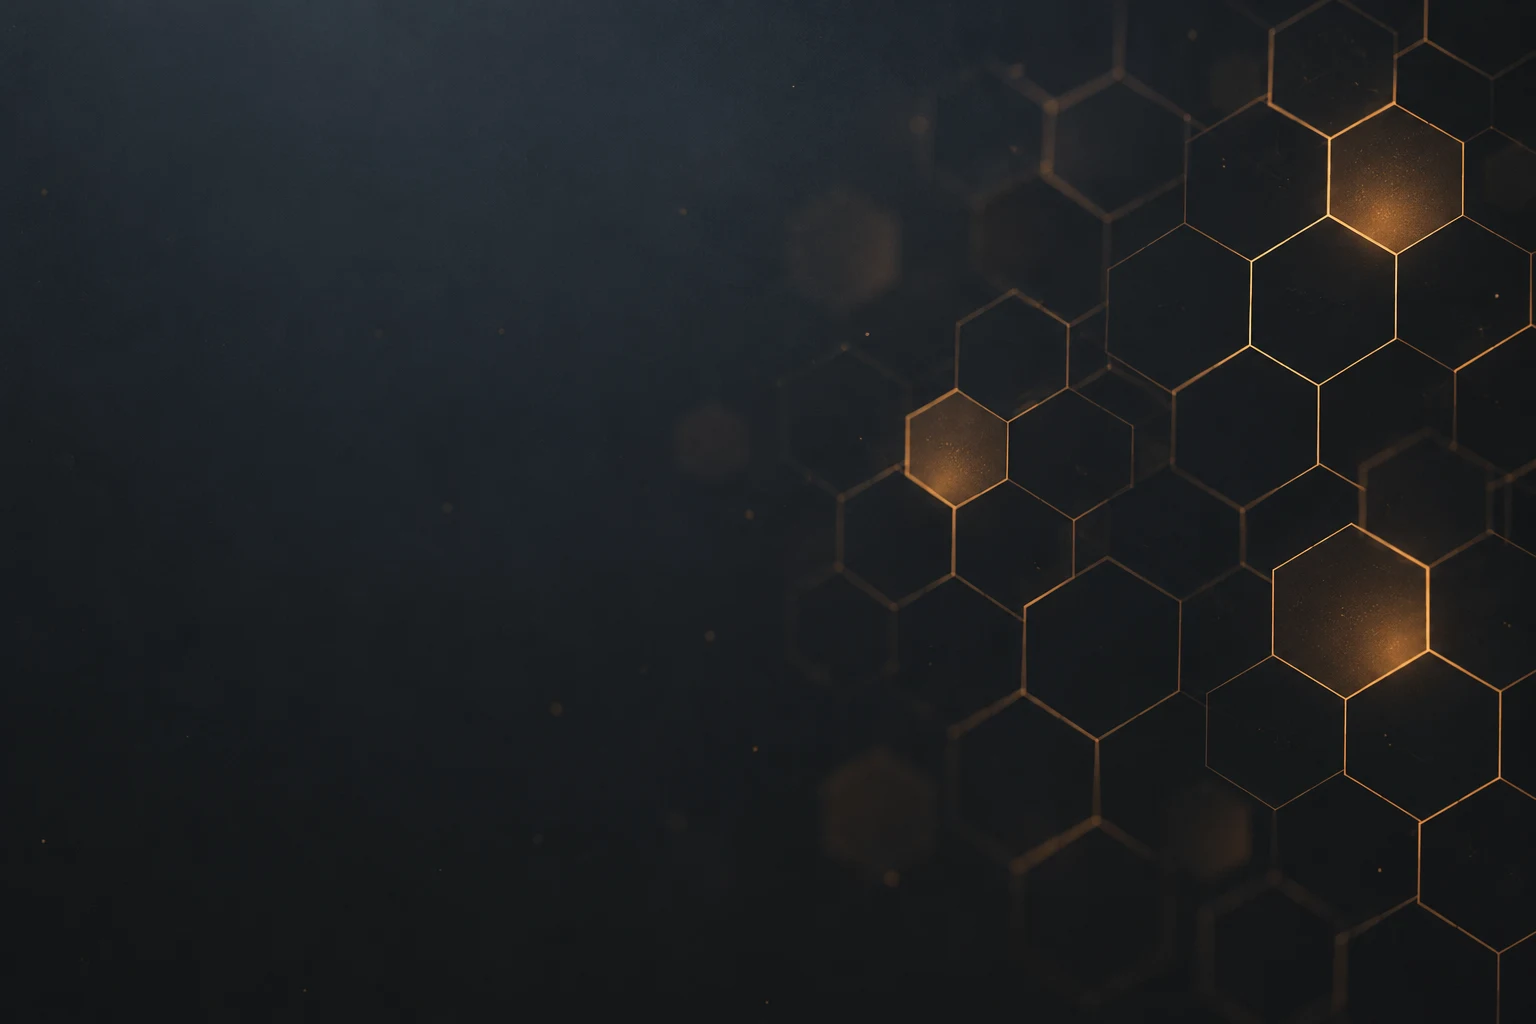
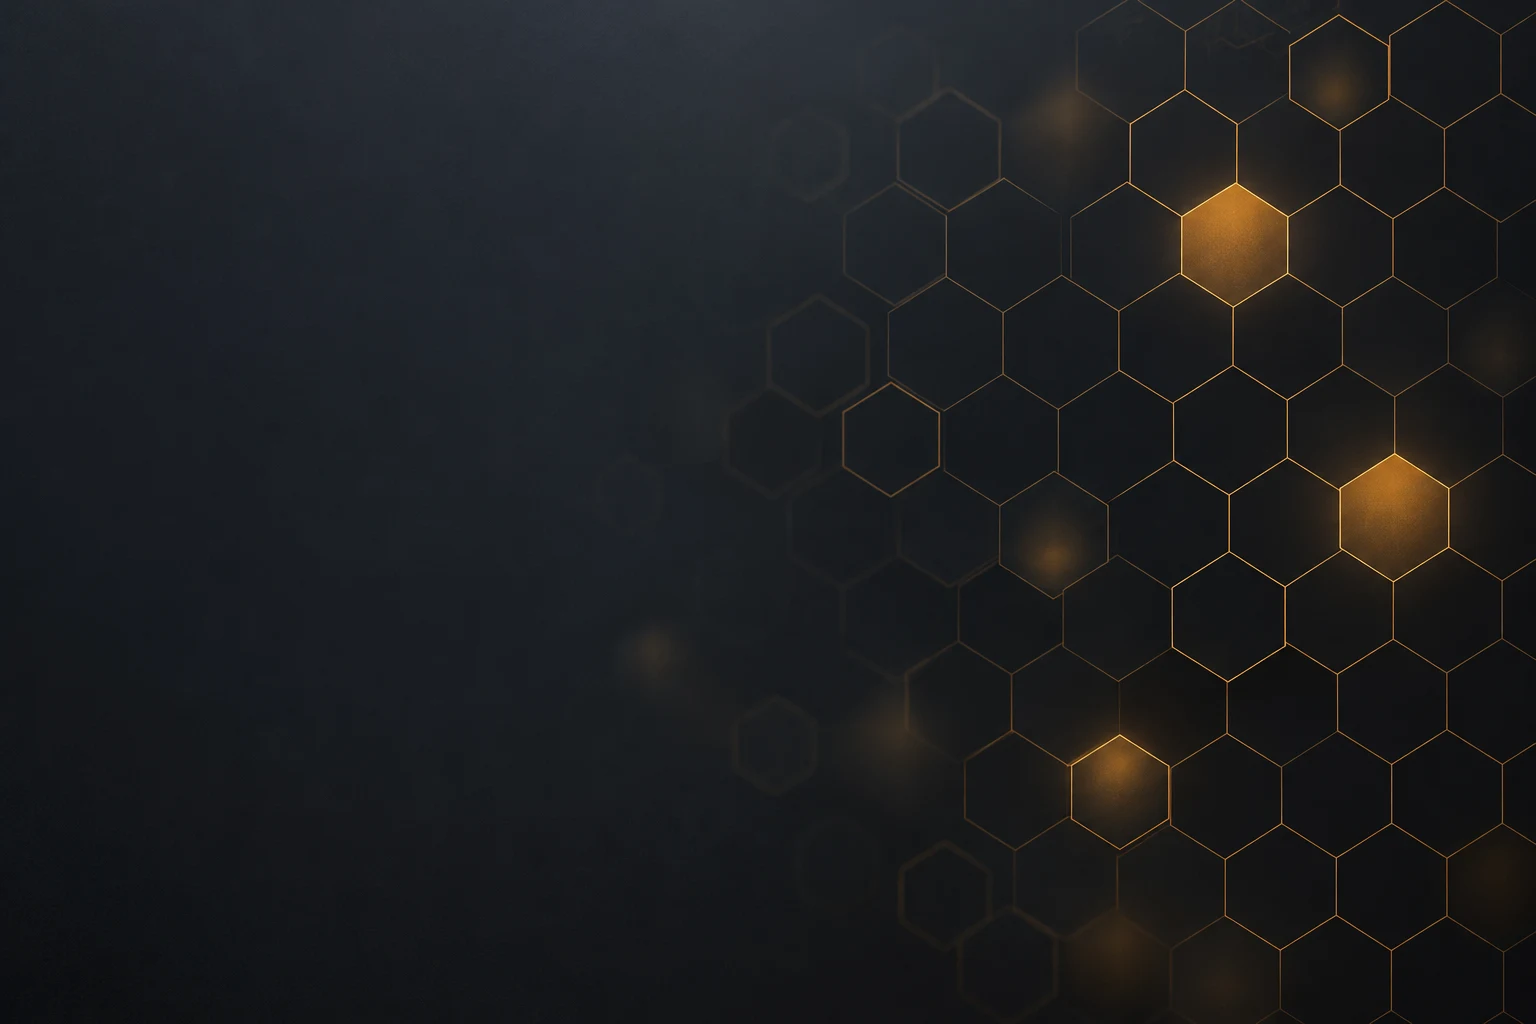
brand guide; one palette across app and site; pointy-top key visual
BRAND.md covers the name, the mark, the icon, colour (Hive Day and Hive
Night), status, type, shape and motion, voice and imagery, with a sheet
rendered in the real fonts and assets in .github/assets/brand/.

Decisions: honeycombs are pointy-top everywhere, like the mark, so the
key visual is regenerated and the share cards re-captured. The site's
dark mode uses the app's Tomorrow Night surfaces instead of the older
warm charcoal, and both use the app's muted #8C8478 on paper.

diff --git a/site/og/brand-sheet.html b/site/og/brand-sheet.html
@@ -1,0 +1,85 @@
+<!doctype html>
+<!-- hive's brand on one page, for BRAND.md. Capture at 1600×848, device
+     pixel ratio 2 (see README.md here). Values match the app (Style.swift),
+     the site (app.css) and the icon (icon.swift). -->
+<meta charset="utf-8">
+<style>
+  @font-face { font-family: Inter; src: url(../src/lib/fonts/InterVariable.woff2) format('woff2'); font-weight: 100 900; }
+  @font-face { font-family: 'JetBrains Mono'; src: url(../src/lib/fonts/JetBrainsMono-Regular.ttf); }
+  html, body { margin: 0; }
+  body { width: 1600px; height: 848px; background: #f6f2ea; color: #231f1a; font: 400 15px/1.4 Inter, sans-serif;
+         -webkit-font-smoothing: antialiased; display: grid; grid-template-columns: 560px 1fr; }
+  .night { background: #1d1f21; color: #c5c8c6; }
+  section { padding: 56px; }
+  .label { font-size: 13px; letter-spacing: 0.02em; color: #8c8478; margin: 0 0 14px; text-transform: uppercase; }
+  .night .label { color: #969896; }
+  .night .sw i { box-shadow: inset 0 0 0 1px rgb(197 200 198 / 0.22); }
+  .mark { display: flex; align-items: center; gap: 18px; margin-bottom: 44px; }
+  .mark img { width: 96px; height: 96px; }
+  .mark b { font: 600 64px/1 Inter; letter-spacing: -0.035em; }
+  .icon { display: flex; align-items: end; gap: 22px; margin-bottom: 44px; }
+  .icon img:nth-child(1) { width: 160px; } .icon img:nth-child(2) { width: 64px; } .icon img:nth-child(3) { width: 32px; } .icon img:nth-child(4) { width: 16px; }
+  .swatches { display: grid; grid-template-columns: repeat(5, 1fr); gap: 12px; margin-bottom: 36px; }
+  .sw i { display: block; height: 64px; border-radius: 10px; box-shadow: inset 0 0 0 1px rgb(35 31 26 / 0.14); margin-bottom: 8px; }
+  .sw b { display: block; font-weight: 500; font-size: 13px; }
+  .sw span { font: 12px/1.3 'JetBrains Mono', monospace; opacity: 0.75; }
+  .status { display: flex; gap: 28px; margin-bottom: 36px; font-size: 14px; }
+  .status div { display: flex; align-items: center; gap: 8px; }
+  .hex { width: 14px; height: 14px; clip-path: polygon(50% 0, 93.3% 25%, 93.3% 75%, 50% 100%, 6.7% 75%, 6.7% 25%); }
+  .type h1 { font: 500 34px/1.15 Inter; letter-spacing: -0.02em; margin: 0 0 10px; }
+  .type h1 span { color: #f2a93b; }
+  .type h1 + p { margin: 0 0 18px; font-weight: 300; font-size: 19px; letter-spacing: -0.01em; color: rgb(197 200 198 / 0.9); }
+  .type code { font: 14px/1.6 'JetBrains Mono', monospace; color: #fff; background: #282c34; border: 1px solid #373b41; border-radius: 10px; padding: 12px 16px; display: block; }
+  .type code em { color: #969896; font-style: normal; }
+  .day h2 { font: 500 26px/1.15 Inter; letter-spacing: -0.02em; margin: 0 0 8px; }
+  .day h2 span { color: #d98a12; }
+  .day h2 + p { margin: 0; font-weight: 300; font-size: 17px; color: rgb(35 31 26 / 0.64); }
+</style>
+
+<section class="day">
+  <p class="label">Mark</p>
+  <div class="mark"><img src="../../.github/assets/brand/mark-on-light.svg" alt=""><b>hive</b></div>
+  <p class="label">App icon at 160, 64, 32 and 16 px</p>
+  <div class="icon">
+    <img src="../../.github/assets/brand/icon-512.png" alt=""><img src="../../.github/assets/brand/icon-512.png" alt=""><img src="../../.github/assets/brand/icon-512.png" alt=""><img src="../../.github/assets/brand/icon-512.png" alt="">
+  </div>
+  <p class="label">Hive Day</p>
+  <div class="swatches">
+    <div class="sw"><i style="background:#d98a12"></i><b>Honey</b><span>#D98A12</span></div>
+    <div class="sw"><i style="background:#f6f2ea"></i><b>Paper</b><span>#F6F2EA</span></div>
+    <div class="sw"><i style="background:#fdfbf7"></i><b>Card</b><span>#FDFBF7</span></div>
+    <div class="sw"><i style="background:#231f1a"></i><b>Ink</b><span>#231F1A</span></div>
+    <div class="sw"><i style="background:#8c8478"></i><b>Muted</b><span>#8C8478</span></div>
+  </div>
+  <div class="status">
+    <div><i class="hex" style="background:#d98a12"></i>Working</div>
+    <div><i class="hex" style="background:#d24e45"></i>Blocked</div>
+    <div><i class="hex" style="background:#4e9a64"></i>Done</div>
+  </div>
+  <h2>Sessions that survive restarts. <span>Agents you can see.</span></h2>
+  <p>Inter for words. JetBrains Mono for terminals and code.</p>
+</section>
+
+<section class="night">
+  <p class="label">Mark on night</p>
+  <div class="mark"><img src="../../.github/assets/brand/mark-on-dark.svg" alt=""><b style="color:#e2e3e1">hive</b></div>
+  <p class="label">Hive Night: Tomorrow Night surfaces, honey accent</p>
+  <div class="swatches">
+    <div class="sw"><i style="background:#f2a93b"></i><b>Honey</b><span>#F2A93B</span></div>
+    <div class="sw"><i style="background:#1d1f21"></i><b>Night</b><span>#1D1F21</span></div>
+    <div class="sw"><i style="background:#282c34"></i><b>Surface</b><span>#282C34</span></div>
+    <div class="sw"><i style="background:#373b41"></i><b>Line</b><span>#373B41</span></div>
+    <div class="sw"><i style="background:#c5c8c6"></i><b>Text</b><span>#C5C8C6</span></div>
+  </div>
+  <div class="status">
+    <div><i class="hex" style="background:#f2a93b"></i>Working</div>
+    <div><i class="hex" style="background:#cc6666"></i>Blocked</div>
+    <div><i class="hex" style="background:#b5bd68"></i>Done</div>
+  </div>
+  <div class="type">
+    <p class="label">Type</p>
+    <h1>A terminal multiplexer for <span>agent-heavy work.</span></h1>
+    <p>Short sentences. Common words. Only what exists.</p>
+    <code>hive -s work run --label tests --wait -- go test ./... <em># exits with the tests' status</em></code>
+  </div>
+</section>

diff --git a/site/src/app.css b/site/src/app.css
@@ -8,7 +8,7 @@
   --card: #fdfbf7;
   --ink: #231f1a;
   --ink-62: rgb(35 31 26 / 0.64);
-  --muted: #a39b8f;
+  --muted: #8c8478;
   --rule: rgb(35 31 26 / 0.12);
   --tint: rgb(35 31 26 / 0.05);
   --honey: #d98a12;
@@ -21,13 +21,14 @@
 
 @media (prefers-color-scheme: dark) {
   :root {
-    --paper: #141317;
-    --card: #1b1a1f;
-    --ink: #ece8e1;
-    --ink-62: rgb(236 232 225 / 0.66);
-    --muted: #7d776f;
-    --rule: rgb(236 232 225 / 0.12);
-    --tint: rgb(236 232 225 / 0.06);
+    /* Tomorrow Night, as in the app's dark mode (see BRAND.md). */
+    --paper: #1d1f21;
+    --card: #282c34;
+    --ink: #e2e3e1;
+    --ink-62: rgb(197 200 198 / 0.9);
+    --muted: #969896;
+    --rule: rgb(197 200 198 / 0.14);
+    --tint: rgb(197 200 198 / 0.07);
     --honey: #f2a93b;
     --honey-soft: rgb(242 169 59 / 0.16);
     color-scheme: dark;

diff --git a/site/src/routes/+page.svelte b/site/src/routes/+page.svelte
@@ -116,7 +116,7 @@ make vt build
            background: linear-gradient(160deg, #f6d9a3 0%, #f3e6d1 48%, #efe9df 100%); }
   .panel img { position: absolute; top: 50%; left: 8%; width: 165%; max-width: none; height: auto; transform: translateY(-50%); }
   @media (prefers-color-scheme: dark) {
-    .panel { background: linear-gradient(160deg, #3b2c17 0%, #1e1b1f 52%, #151418 100%); }
+    .panel { background: linear-gradient(160deg, #3d3020 0%, #26282d 52%, #1d1f21 100%); }
   }
   header { margin-bottom: 18vh; }
 

diff --git a/BRAND.md b/BRAND.md
@@ -1,0 +1,140 @@
+# hive brand
+
+![hive's mark, app icon, colours and type in Hive Day and Hive Night](.github/assets/brand/sheet.webp)
+
+The idea in one shape: **many sessions, one needs you.** hive keeps a lot of
+work running side by side, and shows you the one that's waiting.
+
+## Name
+
+- **hive**, in lowercase, everywhere in text. That includes the start of a
+  sentence: "hive keeps your sessions."
+- **Hive** with a capital H only as the name of the macOS app (`Hive.app`,
+  the menu bar, the Dock), because macOS shows app names that way.
+- Never "HIVE" or "Hive CLI". The command is `hive`.
+
+## Mark
+
+Three pointy-top honeycomb cells. The top cell is lit honey; the two below
+are quiet.
+
+| File | Use |
+| --- | --- |
+| `.github/assets/brand/mark-on-light.svg` | On paper and other light backgrounds |
+| `.github/assets/brand/mark-on-dark.svg` | On night and other dark backgrounds |
+| `site/src/lib/Mark.svelte` | The site, which adapts to light and dark |
+
+- **Geometry:** pointy-top hexagons, the cell's corner pointing up. The two
+  lower cells sit 60° below the top one, with a small gap. The source of
+  truth is `apps/macos/script/icon.swift`, and the SVGs use the same
+  numbers.
+- **Clear space:** at least half a cell's width on every side.
+- **Smallest size:** 16 px. Below that, use only the lit cell.
+- **With the name:** the mark, then **hive** in Inter SemiBold at about the
+  mark's height, tracking −0.035em. The gap is a third of the mark's width.
+- **Don't:**
+  - rotate it or use flat-top cells;
+  - change the lit cell to any colour but honey, or light more than one
+    cell;
+  - add outlines, gradients beyond the icon's own, or a bee.
+
+## App icon
+
+The mark on a Tomorrow Night tile, with a soft honey glow behind the lit
+cell. `apps/macos/script/icon.swift` draws it, and `bundle.sh` builds
+`AppIcon.icns`. Exports: `.github/assets/brand/icon-1024.png` and
+`icon-512.png`. It reads at 16 px, so don't simplify it for small sizes.
+
+## Colour
+
+Honey is the only accent. Use it for one thing at a time: focus, the active
+tab, a selection, the lit cell, or the words that matter in a headline.
+Never fill a large area with it.
+
+**Hive Day** (light)
+
+| Role | Hex |
+| --- | --- |
+| Honey | `#D98A12` |
+| Paper (background) | `#F6F2EA` |
+| Card | `#FDFBF7` |
+| Ink (text) | `#231F1A` |
+| Muted | `#8C8478` |
+| Line | Ink at 12% |
+
+**Hive Night** (dark): the Tomorrow Night surfaces of Ghostty and tmux, with
+a honey accent
+
+| Role | Hex |
+| --- | --- |
+| Honey | `#F2A93B` |
+| Night (background) | `#1D1F21` |
+| Surface (cards, terminal) | `#282C34` |
+| Line | `#373B41` |
+| Text | `#C5C8C6` |
+| Muted | `#969896` |
+
+**Status**: always shown with a small pointy-top hexagon
+
+| State | Day | Night | Behaviour |
+| --- | --- | --- | --- |
+| Working | Honey `#D98A12` | Honey `#F2A93B` | Pulses slowly |
+| Blocked | Coral `#D24E45` | `#CC6666` | Steady, with the word "Blocked" and the reason |
+| Done | Sage `#4E9A64` | `#B5BD68` | Steady, until you look |
+
+In dark mode, the terminal uses Ghostty's default theme exactly. Light and
+dark follow the system setting.
+
+## Type
+
+- **Inter** for words. Light (300) for body text, Medium (500) for headings,
+  SemiBold (600) only for the name next to the mark.
+- **JetBrains Mono** for terminals, commands and code. The app uses the
+  Nerd Font build, so prompt glyphs render.
+- **Landing page:** body about 21 px, line-height 1.3, tracking −0.01em;
+  headline about 30 px at 500, tracking −0.02em; text column at most 72
+  characters.
+- **Docs:** column 576 px; body 15 px, line-height 1.5; h1 28 px; h2 18 px,
+  both at 400.
+
+## Shape and motion
+
+- **Corner radii:** pane cards 10 px, code blocks 12 px. Pills are fully
+  round (22–28 px).
+- **Gaps:** 8 px between pane cards.
+- **Easing:** `cubic-bezier(0.4, 0, 0.2, 1)`. Motion is short and quiet:
+  no bounces.
+- **Truncation:** long titles fade out at the edge. Never end them with
+  "…".
+
+## Voice
+
+Write for a reader whose first language isn't English.
+
+- Short sentences, common words, one idea per sentence.
+- Say what it does, concretely: "Sessions come back after a restart," not
+  "seamless persistence."
+- Claim only what exists today. If it's planned, say "planned."
+- No hype, no filler: avoid words like "blazing", "revolutionary",
+  "effortless", "supercharge" and "unlock".
+- Commands in code style, and real ones that work when pasted.
+
+## Imagery
+
+- **Screenshots:** real ones only, from `apps/macos/script/shot.sh`. Never
+  generated or edited user interface.
+- **Key visual:** `.github/assets/brand/key-visual.webp`, for backgrounds
+  such as share cards. It is a sparse honeycomb of pointy-top cells with a
+  few lit, on night. Its left side is kept empty for text.
+- **Text in images:** set in Inter afterwards (see `site/og/`). Never
+  generate it.
+- **Honeycombs:** always pointy-top, like the mark.
+
+## Files
+
+| What | Where |
+| --- | --- |
+| Brand assets | `.github/assets/brand/` |
+| App colours | `apps/macos/Sources/HiveApp/Style.swift` |
+| Site colours and type | `site/src/app.css` |
+| Share cards and this page's sheet | `site/og/` |

diff --git a/site/og/README.md b/site/og/README.md
@@ -13,3 +13,6 @@ pixel ratio of 2, take a screenshot, and scale it down:
 | `.github/assets/social-preview.jpg` | 1280×640 | GitHub's social preview (upload it in the repo settings) |
 
 The layout uses viewport units, so the same file works at both sizes.
+
+`brand-sheet.html` is the image at the top of `BRAND.md`. Capture it the
+same way at 1600×848, then save it as `.github/assets/brand/sheet.webp`.

diff --git a/README.md b/README.md
@@ -170,6 +170,10 @@ hive stands on [Ghostty](https://ghostty.org)'s terminal engine, and uses
 [JetBrains Mono](https://www.jetbrains.com/lp/mono/) and
 [Inter](https://rsms.me/inter/).
 
+## Brand
+
+The mark, colours, type and voice are in [BRAND.md](BRAND.md).
+
 ## License
 
 [MIT](LICENSE)
